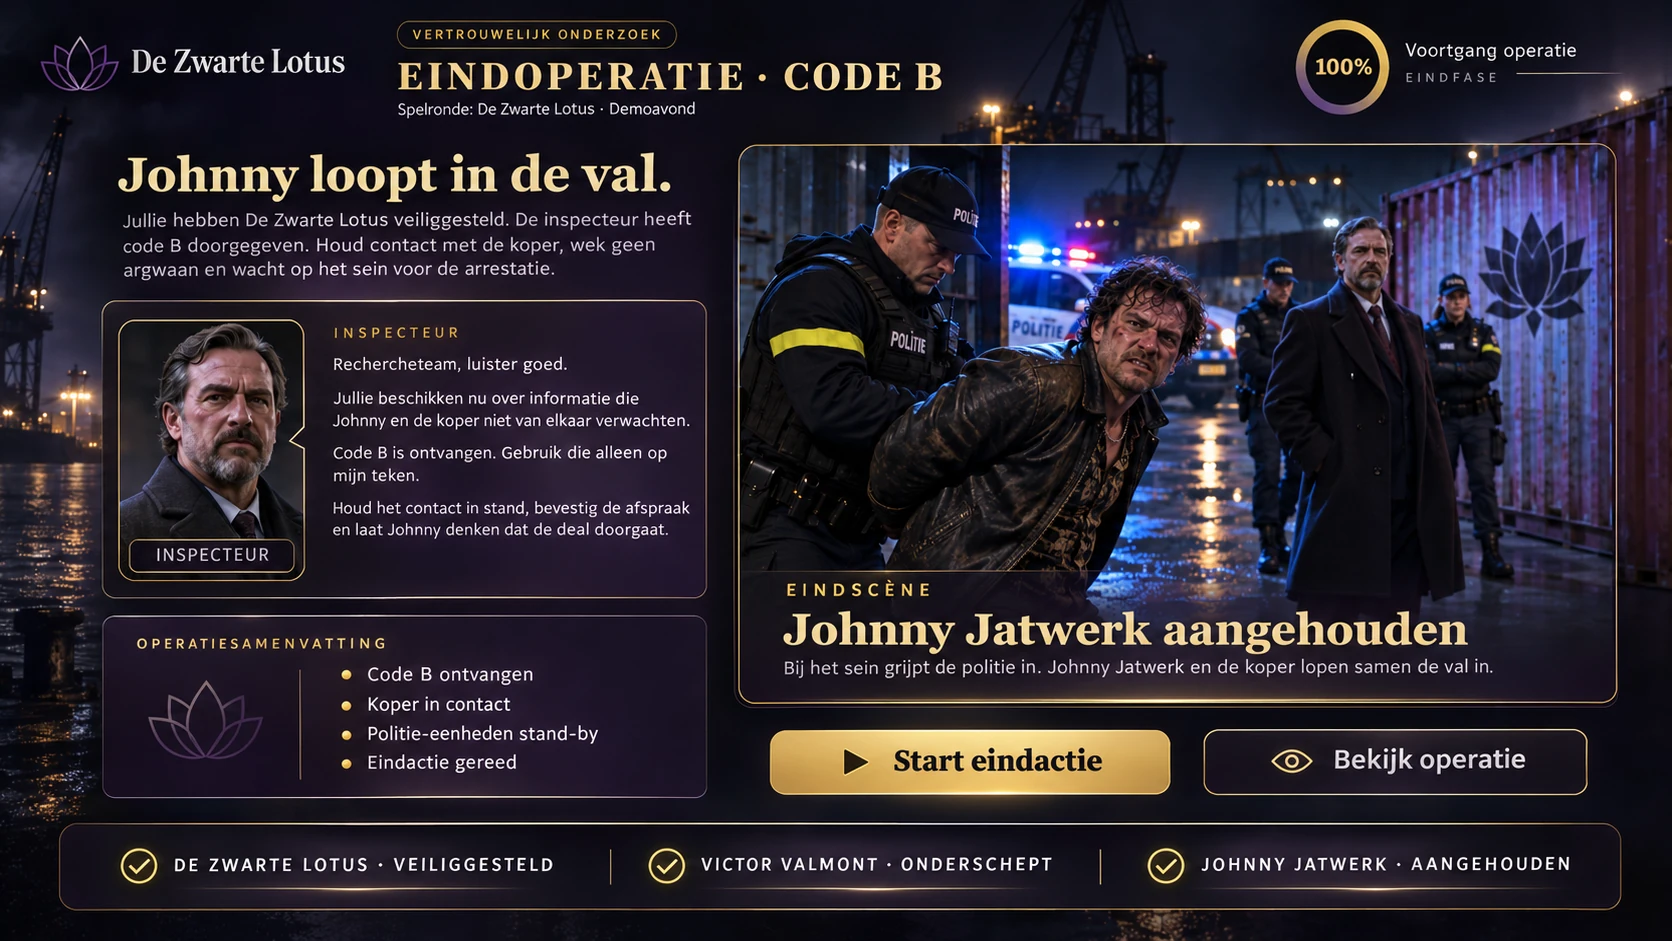
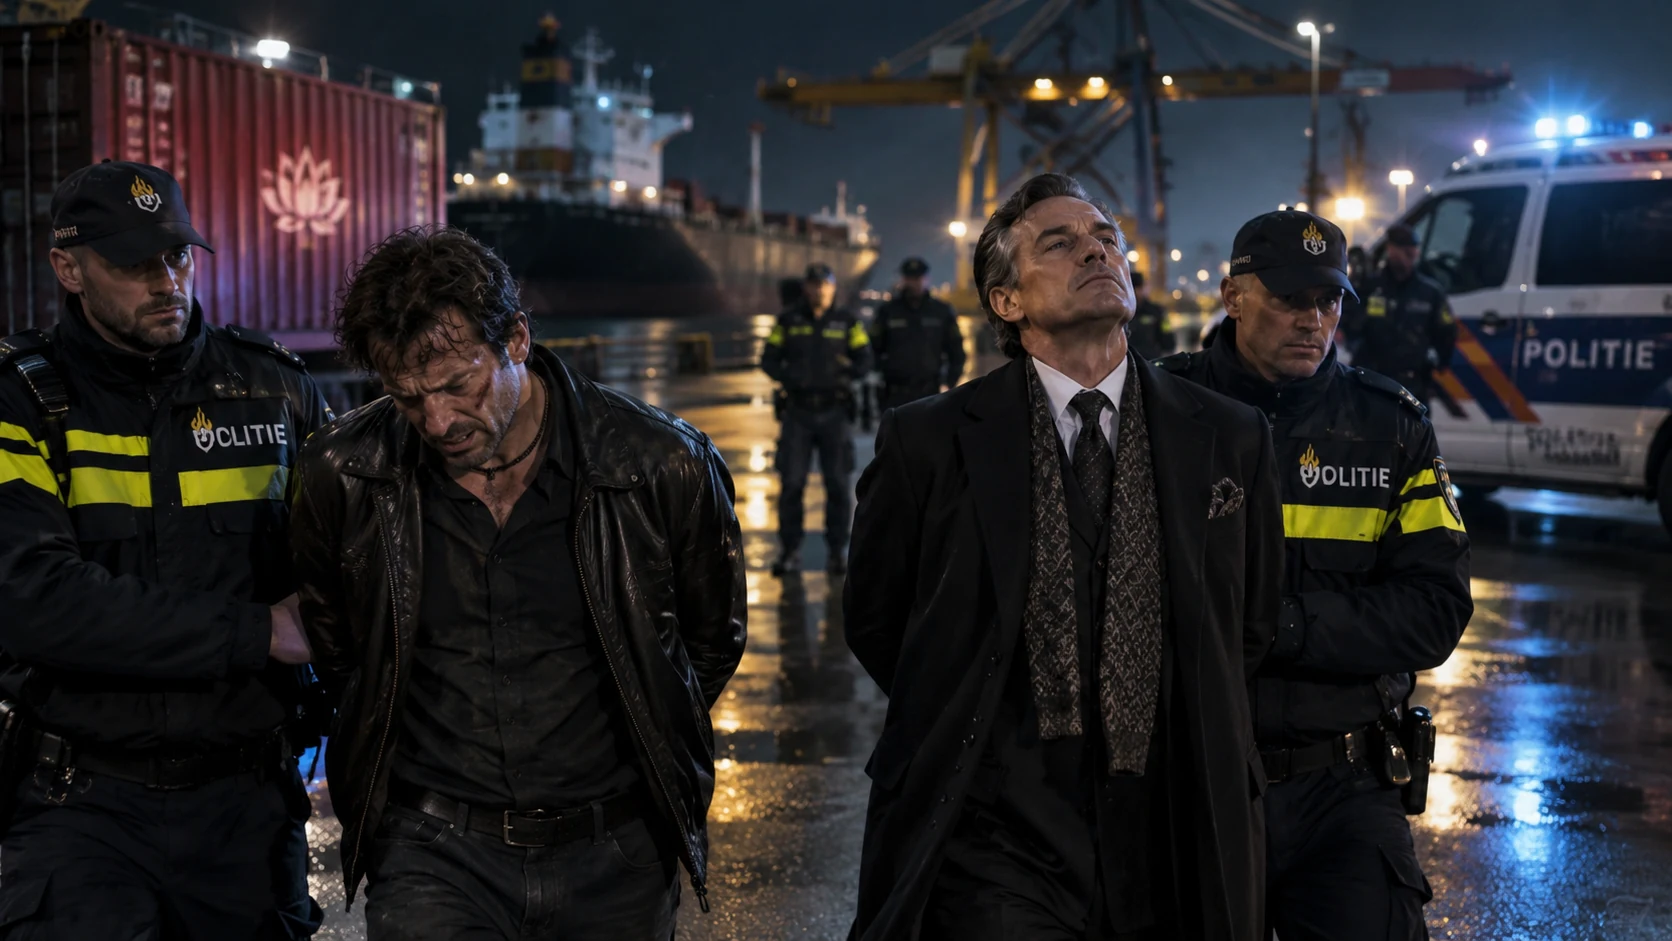
Add files via upload

diff --git a/client/src/main.jsx b/client/src/main.jsx
@@ -455,6 +455,18 @@ function StaffPortal({onExit}) {
       await refreshEvent(data.event.id);
     }catch(err){setNotice(err.message);}finally{setBusy(false);}
   }
+  async function deleteEvent(){
+    if(!event)return;
+    const confirmation=window.prompt(`Dit verwijdert '${event.name}' en alle ${teams.length} teamresultaten definitief.\n\nTyp exact de evenementnaam om te bevestigen:`);
+    if(confirmation===null)return;
+    if(confirmation!==event.name){setNotice('Niet verwijderd: de ingevoerde evenementnaam komt niet overeen.');return;}
+    try{
+      await request(`/api/events/${event.id}`,{method:'DELETE',body:JSON.stringify({confirmName:confirmation})});
+      setEvent(null);setTeams([]);setNotice(`Evenement '${confirmation}' en de bijbehorende resultaten zijn verwijderd.`);
+      await refreshEvents();
+    }catch(err){setNotice(err.message);}
+  }
+  const finishedTeams=teams.filter(t=>t.status==='klaar').sort((a,b)=>a.elapsedSeconds-b.elapsedSeconds || (a.finishedAt||0)-(b.finishedAt||0));
   async function teamAction(team,action){
     if(['reset','stop'].includes(action)&&!confirm(`${action==='reset'?'Reset':'Stop'} ${team.teamName}?`))return;
     try{await request(`/api/events/${event.id}/teams/${team.id}/action`,{method:'POST',body:JSON.stringify({action})});await refreshEvent(event.id);}catch(e){setNotice(e.message);}
@@ -480,9 +492,9 @@ function StaffPortal({onExit}) {
     <div className="staff-nav"><button className="secondary" onClick={()=>{setTab('events');setEvent(null);refreshEvents().catch(e=>setNotice(e.message));}}>Mijn evenementen</button>{user.role==='admin'&&<><button className="secondary" onClick={loadEditor}>Spel-editor</button><button className="secondary" onClick={async()=>{try{const j=await request('/api/admin/facilitators');setStaffUsers(j.users);setTab('staff');}catch(e){setNotice(e.message);}}}>Accounts</button></>}</div>
     {notice&&<div className="feedback" role="status">{notice}</div>}
     {tab==='events'&&!event&&<><section className="panel"><h2>Nieuw evenement</h2><form onSubmit={createEvent} className="staff-form"><label>Evenementnaam<input name="name" required/></label><button className="primary" disabled={busy}>Evenement aanmaken</button></form></section><section className="panel"><h2>Mijn evenementen</h2><div className="staff-event-grid">{events.map(e=><button key={e.id} className="staff-event-button" onClick={()=>refreshEvent(e.id).catch(x=>setNotice(x.message))}><strong>{e.name}</strong><small>{e.teamCount} teams · {e.status==='closed'?'Afgesloten':'Open'}</small></button>)}</div></section></>}
-    {tab==='events'&&event&&<><section className="panel"><div className="staff-heading"><div><button className="secondary" onClick={()=>setEvent(null)}>← Evenementen</button><h2>{event.name}</h2><p>Deel deze code met alle teams. De timer start automatisch zodra een team het spel begint.</p></div><div className="staff-code"><span>EVENEMENTCODE</span><strong>{event.code}</strong><button className="secondary" onClick={()=>navigator.clipboard.writeText(event.code)}>Kopieer</button></div></div><p>Status: <strong>{event.status==='closed'?'Afgesloten':'Open voor deelname'}</strong> · {teams.length} teams</p>{event.status!=='closed'&&<button className="secondary" onClick={async()=>{if(!confirm('Evenement afsluiten? Alle nog actieve teams worden gestopt.'))return;try{await request(`/api/events/${event.id}/close`,{method:'POST'});await refreshEvent(event.id);}catch(e){setNotice(e.message);}}}>Evenement afsluiten</button>}</section>
+    {tab==='events'&&event&&<><section className="panel"><div className="staff-heading"><div><button className="secondary" onClick={()=>setEvent(null)}>← Evenementen</button><h2>{event.name}</h2><p>Deel deze code met alle teams. De timer start automatisch zodra een team het spel begint.</p></div><div className="staff-code"><span>EVENEMENTCODE</span><strong>{event.code}</strong><button className="secondary" onClick={()=>navigator.clipboard.writeText(event.code)}>Kopieer</button></div></div><p>Status: <strong>{event.status==='closed'?'Afgesloten':'Open voor deelname'}</strong> · {teams.length} teams</p>{event.status!=='closed'&&<button className="secondary" onClick={async()=>{if(!confirm('Evenement afsluiten? Alle nog actieve teams worden gestopt. De ranglijst en alle gegevens blijven bewaard.'))return;try{await request(`/api/events/${event.id}/close`,{method:'POST'});await refreshEvent(event.id);}catch(e){setNotice(e.message);}}}>Evenement afsluiten (resultaten bewaren)</button>}<p className="staff-retention-note">🔒 Dit evenement en de ranglijst blijven bestaan totdat jij ze handmatig verwijdert. Afsluiten verwijdert niets.</p><button className="staff-delete-event" onClick={deleteEvent}>Evenement en resultaten definitief verwijderen…</button></section>
     <section className="panel staff-table"><h2>Live dashboard</h2><table><thead><tr><th>Team</th><th>Fase</th><th>Route</th><th>Speeltijd</th><th>Hints</th><th>Straf</th><th>Status</th><th>Eindtijd</th><th>Bediening</th></tr></thead><tbody>{teams.map(t=><tr key={t.id}><td><strong>{t.teamName}</strong></td><td>{phaseLabels[t.currentPhase]||t.currentPhase}</td><td>{t.chosenRoute||'—'}</td><td>{formatDuration(t.elapsedSeconds)}</td><td>{t.hintCount}</td><td>+{t.penaltyMinutes||0} min</td><td>{t.pausedAt?'Gepauzeerd':t.status}</td><td>{localTime(t.finishedAt||t.stoppedAt)}</td><td><div className="staff-actions">{t.status!=='klaar'&&t.status!=='gestopt'&&<>{t.pausedAt?<button onClick={()=>teamAction(t,'resume')}>Hervat</button>:<button onClick={()=>teamAction(t,'pause')}>Pauzeer</button>}<button onClick={()=>teamAction(t,'next')}>Volgende fase</button><button onClick={()=>teamAction(t,'stop')}>Stop</button></>}<button onClick={()=>teamAction(t,'reset')}>Reset</button></div></td></tr>)}</tbody></table>{teams.length===0&&<p>Er zijn nog geen teams ingelogd.</p>}</section>
-    <section className="panel"><h2>Ranglijst afgeronde teams</h2>{teams.filter(t=>t.status==='klaar').sort((a,b)=>a.elapsedSeconds-b.elapsedSeconds).map((t,i)=><p key={t.id}>{i+1}. {t.teamName} — {formatDuration(t.elapsedSeconds)}</p>)}</section></>}
+    <section className="panel staff-leaderboard"><div className="staff-leaderboard-head"><div><span>OFFICIËLE EINDSTAND</span><h2>🏆 Leaderboard</h2><p>Rangschikking op totale eindtijd, inclusief strafminuten. De ranglijst blijft beschikbaar na afloop en na afsluiten van het evenement.</p></div><strong>{finishedTeams.length} / {teams.length} teams klaar</strong></div>{finishedTeams.length===0?<p className="leaderboard-empty">Nog geen afgeronde teams. Resultaten verschijnen hier automatisch zodra een team het spel voltooit.</p>:<div className="leaderboard-scroll"><table className="leaderboard-table"><thead><tr><th>Plaats</th><th>Team</th><th>Speeltijd</th><th>Straf</th><th>Eindtijd inclusief straf</th></tr></thead><tbody>{finishedTeams.map((t,i)=><tr key={t.id}><td><span className={`leaderboard-rank ${i<3?'podium':''}`}>{i+1}</span></td><td><strong>{t.teamName}</strong><small>{t.chosenRoute||'Route onbekend'}</small></td><td>{formatDuration(Math.max(0,t.elapsedSeconds-(t.penaltyMinutes||0)*60))}</td><td>+{t.penaltyMinutes||0} min</td><td><strong>{formatDuration(t.elapsedSeconds)}</strong></td></tr>)}</tbody></table></div>}</section></>}
     {tab==='staff'&&user.role==='admin'&&<><section className="panel"><h2>Spelbegeleider aanmaken</h2><form className="staff-form" onSubmit={addFacilitator}><label>Gebruikersnaam<input name="username" required/></label><label>Wachtwoord (minimaal 12 tekens)<input name="password" type="password" minLength={12} required/></label><button className="primary">Account aanmaken</button></form></section><section className="panel"><h2>Accounts</h2>{staffUsers.map(u=><p key={u.id}>{u.username} · {u.role}</p>)}</section></>}
     {tab==='editor'&&user.role==='admin'&&editor&&<section className="panel"><h2>Spel-editor · antwoordcontrole</h2><p>Je kunt hier de geaccepteerde antwoorden voor de basispuzzels en aanvullende instructies instellen. Complexe routes en verhaalscènes staan nog in de broncode.</p><form onSubmit={saveEditor} className="staff-form"><label>Puzzel<select value={editPhase} onChange={e=>selectPhase(e.target.value)}>{editor.phases.map(p=><option key={p} value={p}>{phaseLabels[p]||p}</option>)}</select></label><label>Geaccepteerde antwoorden (één per regel)<textarea rows={7} value={answers} onChange={e=>setAnswers(e.target.value)} required/></label><label>Aanvullende instructie voor spelers (optioneel)<textarea rows={4} value={note} onChange={e=>setNote(e.target.value)}/></label><button className="primary">Opslaan</button></form></section>}
   </div></main>;

diff --git a/client/src/styles.css b/client/src/styles.css
@@ -763,3 +763,24 @@
 .buyer-device-instruction p{margin:8px 0 0;line-height:1.6;color:#d8d1dc}
 .buyer-mission-warning{margin-bottom:0!important;padding:12px 15px;border-left:3px solid #bb6c53;background:rgba(140,56,42,.1)}
 @media(max-width:560px){.buyer-device-instruction{grid-template-columns:1fr}.buyer-device-icon{width:112px}}
+
+/* v9.1 - blijvend leaderboard en expliciet evenementbeheer */
+.staff-retention-note{margin:14px 0 12px!important;color:#e6c984;font-size:13px;line-height:1.6}
+.staff-delete-event{display:inline-block;margin-top:8px;padding:11px 14px;color:#f6c6b9!important;background:rgba(139,53,47,.13)!important;border:1px solid #92574c!important;border-radius:9px;cursor:pointer;font-weight:700}
+.staff-delete-event:hover{background:rgba(139,53,47,.25)!important}
+.staff-leaderboard{border:1px solid rgba(201,162,39,.42)!important;background:linear-gradient(145deg,#24162f,#120d1c)!important}
+.staff-leaderboard-head{display:flex;align-items:start;justify-content:space-between;gap:20px;margin-bottom:20px}
+.staff-leaderboard-head span{font-size:10px;letter-spacing:.15em;color:#c9a227;font-weight:800}
+.staff-leaderboard-head h2{color:#f0d69a;font-family:Georgia,serif;font-size:clamp(24px,3vw,32px);margin:6px 0 8px}
+.staff-leaderboard-head p{font-size:13px;line-height:1.55;max-width:650px;color:#cfc6d0;margin:0}
+.staff-leaderboard-head>strong{color:#e8d6ae;font-size:13px;white-space:nowrap}
+.leaderboard-scroll{width:100%;overflow-x:auto}
+.leaderboard-table{width:100%;border-collapse:collapse;min-width:580px}
+.leaderboard-table th{padding:13px 12px;text-align:left;font-size:11px;letter-spacing:.045em;color:#dabb70;border-bottom:1px solid #5d4c5a}
+.leaderboard-table td{padding:14px 12px;border-bottom:1px solid #3c2c45;color:#f4eaf1;font-size:14px;font-variant-numeric:tabular-nums}
+.leaderboard-table td small{display:block;color:#a79bab;font-size:11px;margin-top:3px}
+.leaderboard-table td:last-child strong{color:#f1d48a;font-size:17px}
+.leaderboard-rank{display:grid;place-items:center;background:#302536;border:1px solid #68516d;border-radius:50%;width:30px;height:30px;color:#e6d7e6;font-weight:800}
+.leaderboard-rank.podium{background:rgba(201,162,39,.14);border-color:#c9a227;color:#f2ce72}
+.leaderboard-empty{padding:20px;border:1px dashed #5d4c5a;border-radius:10px;color:#d3c1d3}
+@media(max-width:700px){.staff-leaderboard-head{flex-direction:column}}

diff --git a/server/src/index.js b/server/src/index.js
@@ -643,6 +643,18 @@ app.get('/api/events/:id',(req,res)=>{
   if(!permittedEvent(req,event))return res.status(403).json({error:'Geen toegang tot dit evenement.'});
   res.json({event,teams:db.teams.filter(t=>t.eventId===event.id).map(teamView)});
 });
+// Evenementen blijven, ook na afloop van alle teams, bewaard.
+// Alleen een bevoegde spelbegeleider/beheerder kan ze bewust verwijderen.
+app.delete('/api/events/:id',(req,res)=>{
+  const event=db.events.find(e=>e.id===Number(req.params.id));
+  if(!permittedEvent(req,event))return res.status(403).json({error:'Geen toegang tot dit evenement.'});
+  if(String(req.body?.confirmName||'').trim()!==event.name)
+    return res.status(422).json({error:'Typ exact de evenementnaam om definitief te verwijderen.'});
+  const deletedTeams=db.teams.filter(t=>t.eventId===event.id).length;
+  db.teams=db.teams.filter(t=>t.eventId!==event.id);
+  db.events=db.events.filter(e=>e.id!==event.id);
+  res.json({ok:true,deletedTeams});
+});
 app.post('/api/events/:id/close',(req,res)=>{
   const event=db.events.find(e=>e.id===Number(req.params.id));
   if(!permittedEvent(req,event))return res.status(403).json({error:'Geen toegang.'});

diff --git a/START_HIER_V9_1.md b/START_HIER_V9_1.md
@@ -1,0 +1,26 @@
+# De Zwarte Lotus v9.1 — leaderboard en bewaren van spelrondes
+
+## Nieuw
+- Live leaderboard voor elk evenement: afgeronde teams worden gerangschikt op de totale eindtijd **inclusief** strafminuten (de bestaande teller bevat de straf al).
+- Toon apart de netto speeltijd, strafminuten, totale eindtijd en route.
+- Het evenement en het leaderboard blijven bestaan als alle teams klaar zijn.
+- Een evenement afsluiten **stopt actieve teams** maar bewaart alle gegevens.
+- Alleen de eigenaar-spelbegeleider of een beheerder kan het evenement met alle teamresultaten verwijderen. Er is een exacte naambevestiging nodig.
+
+## Installatie
+Pak de volledige ZIP uit en overschrijf de bestaande projectbestanden in GitHub. Of kopieer uit de hotfix alleen `server/src/index.js`, `client/src/main.jsx`, `client/src/styles.css`.
+
+## CRUCIAAL: duurzame opslag op Render
+De website schrijft gegevens naar het bestand ingesteld via `DATA_FILE`. Een reguliere Render filesystem-schijf is vergankelijk; bij redeploy of herstart kunnen resultaten verdwijnen. Gebruik een **Render Persistent Disk**, gemount bijvoorbeeld op `/var/data`, en zet de serveromgevingsvariabele op:
+`DATA_FILE=/var/data/zwarte-lotus-state.json`
+
+Zorg dat je huidige gegevens voor de omschakeling naar een nieuwe locatie worden overgezet of veilig geback-upt. Alleen de code installeren garandeert niet dat historische data overleven.
+
+## Controlestappen
+1. Laat meerdere teams afronden. Open de spelbegeleider, selecteer het evenement en bekijk Leaderboard.
+2. Controleer de volgorde op eindtijd inclusief strafminuten.
+3. Sluit het evenement af; de ranglijst blijft staan, ook na het opnieuw openen van het evenement.
+4. Herstart de backend: met persistente schijf moeten de gegevens behouden blijven.
+5. Verwijderen: kies de rode knop, typ de exacte evenementnaam; pas daarna worden het evenement en de teamresultaten verwijderd.
+
+Let op: de code is syntactisch gecontroleerd maar niet op een live Render-service gevalideerd. Een complete frontend-build kon in deze container niet worden uitgevoerd doordat npm-afhankelijkheden offline niet beschikbaar zijn.
